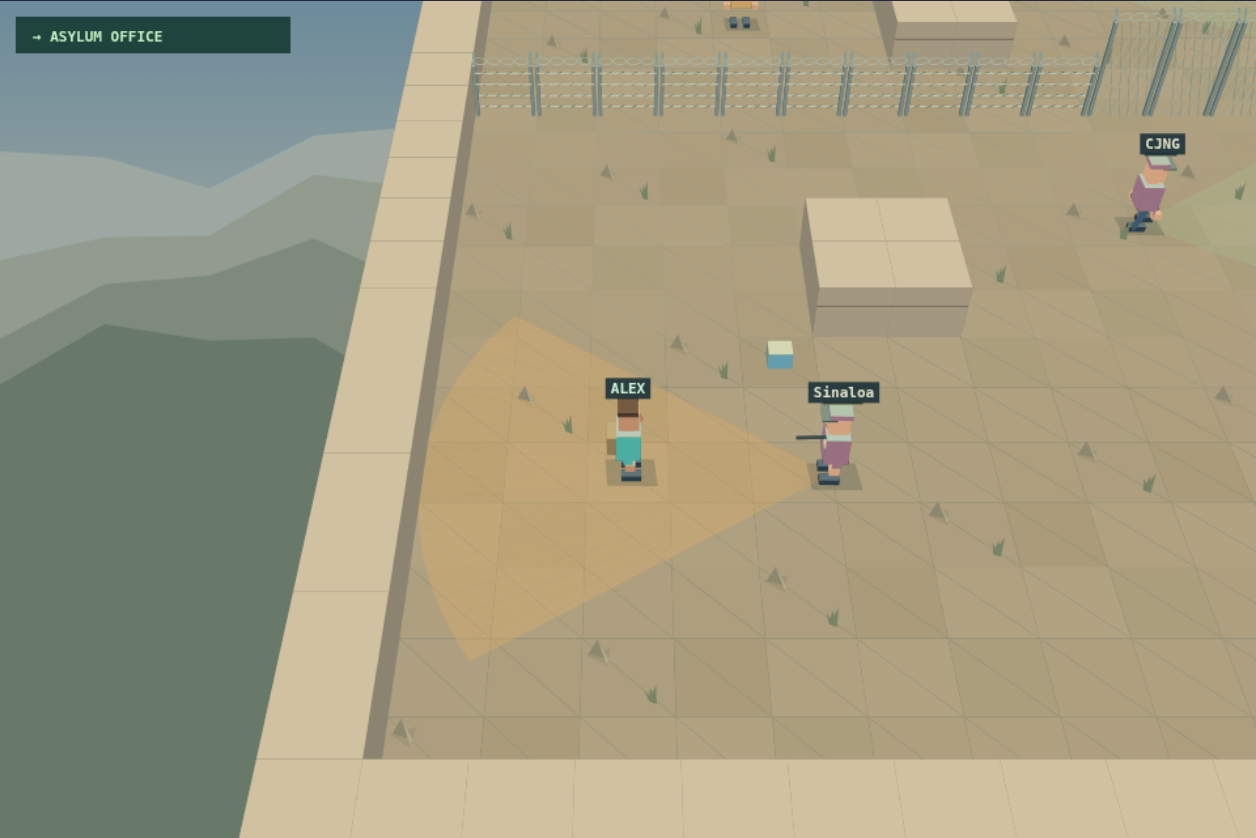
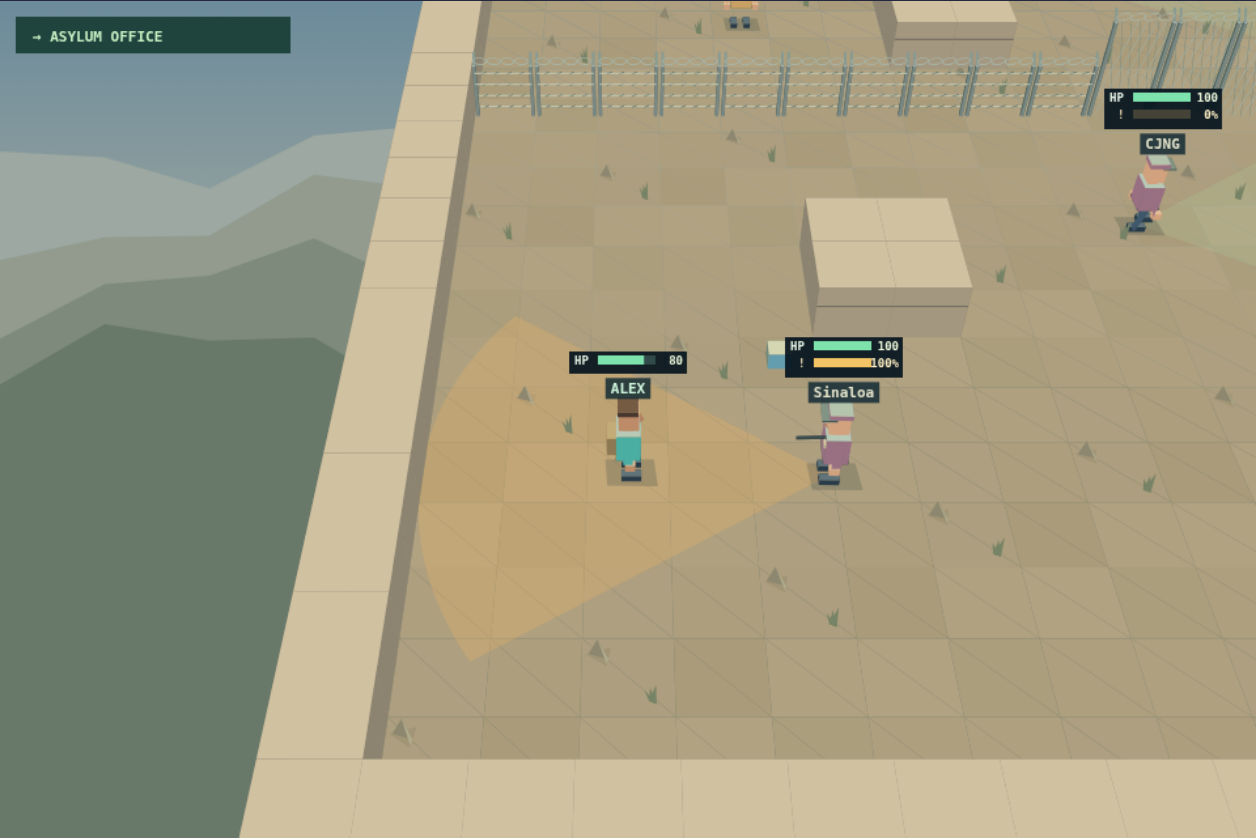
Restore Wall status meters and add nighttime flashlight combat

Changed region(s): [[0.8694, 0.0931, 0.9936, 0.1551], [0.621, 0.4033, 0.7452, 0.4964], [0.4347, 0.4033, 0.5589, 0.4654]]

diff --git a/src/games/against-the-wall/game.ts b/src/games/against-the-wall/game.ts
@@ -15,7 +15,7 @@ export const createGame: GameModule['create'] = (host, services): GameInstance =
     overlayKey = '',
     muted = host.dataset.muted !== 'false';
   const root = document.createElement('section');
-  root.innerHTML = `<style>.aw{font:14px system-ui;color:#f7e7bd;max-width:1440px;margin:auto}.aw-head{display:flex;flex-wrap:wrap;gap:16px;padding:14px;background:#24273e}.aw-stamina{display:flex;align-items:center;gap:8px}.aw-stamina progress{width:120px;accent-color:#8cf1d2}.aw-stage{position:relative}.aw-overlay{position:absolute;inset:15% 10%;background:#18213bf5;border:2px solid #8cf1d2;padding:20px;text-align:center;align-content:center}.aw-controls{display:flex;gap:8px;flex-wrap:wrap;margin:10px 0}.aw button{min-width:48px;min-height:46px;padding:10px;background:#263951;color:#f6ecc7;border:1px solid #82bba9;font:inherit;touch-action:none}.aw-note{line-height:1.6}.aw-status{min-height:40px}</style><div class="aw-head"><strong>AGAINST THE WALL</strong><span data-hud></span><label class="aw-stamina">Sprint <progress data-stamina max="4" value="4" aria-label="Sprint time remaining"></progress> <span data-stamina-label>4.0s / 4s</span></label></div><div class="aw-stage"><canvas aria-label="Perspective border districts with constructed crossings, pursuers and an Asylum Office"></canvas><div class="aw-overlay"></div></div><div class="aw-controls"><button data-dir="up" aria-label="Move up">↑</button><button data-dir="left" aria-label="Move left">←</button><button data-dir="down" aria-label="Move down">↓</button><button data-dir="right" aria-label="Move right">→</button><button data-sprint>Sprint: off</button><button data-breach>Build crossing · B</button><button data-help>Help / Collect · E</button><button data-aim>Distraction · Space</button><button data-confirm>Confirm · Enter</button><button data-step>Step time</button><button data-sound>Sound · M</button></div><div class="aw-construction"><label>Crossing construction <progress data-construction max="1" value="0" aria-label="Crossing construction progress"></progress></label><span data-crossing-info>Approach the barrier and press B.</span></div><p class="aw-status" role="status" aria-live="polite"></p><p class="aw-note">WASD / arrows move on screen · B builds/cancels a crossing; moving cancels construction · Shift runs for up to 4 seconds; release to recharge · E helps nearby adults and collects supplies · Space aims a noise beacon, click a location within four tiles, Enter confirms. Draw hostile factions together: they can exchange fire while you escape. ICE and Border Patrol are allied; same-faction pursuers never shoot one another. Losing health returns Alex safely to the district checkpoint. Mint office marker is your destination. Fictional geography and political cartoon dialogue; reaching intake does not mean asylum approval.</p>`;
+  root.innerHTML = `<style>.aw{font:14px system-ui;color:#f7e7bd;max-width:1440px;margin:auto}.aw-head{display:flex;flex-wrap:wrap;gap:16px;padding:14px;background:#24273e}.aw-stamina{display:flex;align-items:center;gap:8px}.aw-stamina progress{width:120px;accent-color:#8cf1d2}.aw-stage{position:relative}.aw-overlay{position:absolute;inset:15% 10%;background:#18213bf5;border:2px solid #8cf1d2;padding:20px;text-align:center;align-content:center}.aw-controls{display:flex;gap:8px;flex-wrap:wrap;margin:10px 0}.aw button{min-width:48px;min-height:46px;padding:10px;background:#263951;color:#f6ecc7;border:1px solid #82bba9;font:inherit;touch-action:none}.aw-note{line-height:1.6}.aw-status{min-height:40px}</style><div class="aw-head"><strong>AGAINST THE WALL</strong><span data-hud></span><label class="aw-stamina">Health <progress data-health max="100" value="100" aria-label="Health remaining"></progress></label><span data-daylight></span><label class="aw-stamina">Sprint <progress data-stamina max="4" value="4" aria-label="Sprint time remaining"></progress> <span data-stamina-label>4.0s / 4s</span></label></div><div class="aw-stage"><canvas aria-label="Perspective border districts with constructed crossings, pursuers and an Asylum Office"></canvas><div class="aw-overlay"></div></div><div class="aw-controls"><button data-dir="up" aria-label="Move up">↑</button><button data-dir="left" aria-label="Move left">←</button><button data-dir="down" aria-label="Move down">↓</button><button data-dir="right" aria-label="Move right">→</button><button data-sprint>Sprint: off</button><button data-breach>Build crossing · B</button><button data-help>Help / Collect · E</button><button data-aim>Distraction · Space</button><button data-confirm>Confirm · Enter</button><button data-step>Step time</button><button data-sound>Sound · M</button></div><div class="aw-construction"><label>Crossing construction <progress data-construction max="1" value="0" aria-label="Crossing construction progress"></progress></label><span data-crossing-info>Approach the barrier and press B.</span></div><p class="aw-status" role="status" aria-live="polite"></p><p class="aw-note">WASD / arrows move on screen · B builds/cancels a crossing; moving cancels construction · Shift runs for up to 4 seconds; release to recharge · E helps nearby adults and collects supplies · Space aims a noise beacon, click a location within four tiles, Enter confirms. Draw hostile factions together: they can exchange fire while you escape. Day and night alternate every 60 seconds of play. By day ICE and Border Patrol are allied and factions protect their own. At night every pursuer uses a flashlight and may shoot anyone they detect, including allies. Green bars show health; amber bars show attention. Losing health returns Alex safely to the district checkpoint. Mint office marker is your destination. Fictional geography and political cartoon dialogue; reaching intake does not mean asylum approval.</p>`;
   root.className = 'aw';
   host.append(root);
   const canvas = root.querySelector('canvas')!,
@@ -52,6 +52,9 @@ export const createGame: GameModule['create'] = (host, services): GameInstance =
     );
     root.querySelector('[data-hud]')!.textContent =
       `District ${s.district}/3 · Health ${s.health} · Tokens ${s.tokens} · Score ${s.score} · Follow mint office marker`;
+    root.querySelector<HTMLProgressElement>('[data-health]')!.value = s.health;
+    root.querySelector('[data-daylight]')!.textContent =
+      `${M.isNight(s) ? 'Night · flashlights · friendly fire' : 'Day'} · ${Math.ceil(M.secondsToLightChange(s))}s until ${M.isNight(s) ? 'day' : 'night'}`;
     const meter = root.querySelector<HTMLProgressElement>('[data-stamina]')!;
     meter.value = s.stamina / 25;
     meter.setAttribute('aria-valuetext', `${(s.stamina / 25).toFixed(1)} seconds remaining`);
@@ -329,6 +332,8 @@ export const createGame: GameModule['create'] = (host, services): GameInstance =
       tokens: s.tokens,
       stamina: s.stamina,
       health: s.health,
+      night: M.isNight(s),
+      lightChangeIn: M.secondsToLightChange(s),
       enemies: s.enemies.map((e) => ({ ...e })),
       gate: { ...s.gate },
       aim,

diff --git a/src/games/against-the-wall/scene.ts b/src/games/against-the-wall/scene.ts
@@ -1,4 +1,4 @@
-import { canDistract, type State, type Actor } from './model';
+import { isNight, canDistract, type State, type Actor } from './model';
 import { visionBoundary, DISTRACTION_RANGE } from './visibility';
 
 type V = { x: number; y: number; z: number };
@@ -24,6 +24,7 @@ export function drawScene(
   reducedMotion: boolean,
 ) {
   c.save();
+  const night = isNight(s);
   const depth = (p: V) => distance - (p.y - s.y) * 0.68 - p.z * 0.73;
   const project = (p: V) => projectScene(s, p.x, p.y, p.z);
   const v = (x: number, y: number, z = 0): V => ({ x, y, z });
@@ -243,16 +244,11 @@ export function drawScene(
   for (const e of s.enemies) {
     if (e.state === 'dead') continue;
     const boundary = visionBoundary(s, e);
-    for (let i = 0; i < boundary.length - 1; i++)
-      face(
-        [
-          v(e.x, e.y, 0.025),
-          v(boundary[i].x, boundary[i].y, 0.025),
-          v(boundary[i + 1].x, boundary[i + 1].y, 0.025),
-        ],
-        e.meter > 0 ? '#e8b26750' : '#b7d8a630',
-        true,
-      );
+    face(
+      [v(e.x, e.y, 0.025), ...boundary.map((p) => v(p.x, p.y, 0.025))],
+      night ? '#f4edaa85' : e.meter > 0 ? '#e8b26750' : '#b7d8a630',
+      true,
+    );
   }
   // Welcoming office sits on its real model destination, with a portico and lit glazing.
   const ox = s.office.x,
@@ -462,26 +458,14 @@ export function drawScene(
         color: player ? '#cdf4dc' : '#e5e4cc',
       });
     if (e && e.state !== 'dead') {
-      // Meter geometry remains directly over the actor, sorting naturally with nearby cover.
-      const fill = Math.max(0, Math.min(1, e.meter));
-      face(
-        [
-          v(e.x - 0.23, e.y, 1.21),
-          v(e.x + 0.23, e.y, 1.21),
-          v(e.x + 0.23, e.y, 1.26),
-          v(e.x - 0.23, e.y, 1.26),
-        ],
-        '#34483e',
-      );
-      face(
-        [
-          v(e.x - 0.23, e.y - 0.002, 1.212),
-          v(e.x - 0.23 + 0.46 * fill, e.y - 0.002, 1.212),
-          v(e.x - 0.23 + 0.46 * fill, e.y - 0.002, 1.258),
-          v(e.x - 0.23, e.y - 0.002, 1.258),
-        ],
-        '#ebbe65',
-      );
+      if (night) {
+        const dx = Math.cos(heading),
+          dy = Math.sin(heading);
+        const hand = v(e.x + 0.12 * dx - 0.22 * dy, e.y + 0.12 * dy + 0.22 * dx, 0.47);
+        const lens = v(hand.x + 0.22 * dx, hand.y + 0.22 * dy, 0.47);
+        beam(hand, lens, 0.045, '#768d99');
+        beam(v(lens.x - 0.02 * dx, lens.y - 0.02 * dy, 0.47), lens, 0.052, '#f4edaa85');
+      }
       if (e.state === 'combat')
         beam(
           v(e.x + 0.1 * Math.cos(heading), e.y + 0.1 * Math.sin(heading), 0.67),
@@ -567,10 +551,23 @@ export function drawScene(
     c.beginPath();
     points.forEach((p, i) => (i ? c.lineTo(p.x, p.y) : c.moveTo(p.x, p.y)));
     c.closePath();
-    c.fillStyle = mesh.color;
+    const luminous = ['#f4edaa85', '#ffe5a0', '#eadca1', '#93f5d0', '#ff7790', '#ffe59b'].includes(
+      mesh.color,
+    );
+    if (night && !luminous && /^#[0-9a-f]{6}([0-9a-f]{2})?$/i.test(mesh.color)) {
+      const rgb = Number.parseInt(mesh.color.slice(1, 7), 16);
+      const r = Math.round(((rgb >> 16) & 255) * 0.27),
+        g = Math.round(((rgb >> 8) & 255) * 0.34),
+        b = Math.round((rgb & 255) * 0.47);
+      c.fillStyle = `rgba(${r},${g},${b},${mesh.color.length === 9 ? Number.parseInt(mesh.color.slice(7), 16) / 255 : 1})`;
+    } else c.fillStyle = mesh.color;
     c.fill();
   };
   // Ground is its own pass; foreground raised meshes then occlude bodies by physical depth.
+  if (night) {
+    c.fillStyle = '#071529ce';
+    c.fillRect(0, 0, 960, 640);
+  }
   floor.forEach(paint);
   meshes.sort((a, b) => b.depth - a.depth).forEach(paint);
   c.textAlign = 'center';
@@ -584,6 +581,47 @@ export function drawScene(
     c.fillStyle = label.color;
     c.fillText(label.text, p.x, p.y);
   }
+  const meters = [
+    { x: s.x, y: s.y, health: s.health, attention: null as number | null },
+    ...s.enemies
+      .filter((e) => e.state !== 'dead')
+      .map((e) => ({ x: e.x, y: e.y, health: e.health ?? 100, attention: e.meter })),
+  ];
+  c.font = 'bold 9px monospace';
+  for (const actor of meters) {
+    const p = project(v(actor.x, actor.y, 1.32));
+    if (p.x < 48 || p.x > 912 || p.y < 30 || p.y > 580) continue;
+    const x = Math.round(p.x - 43),
+      y = Math.round(p.y - (actor.attention === null ? 30 : 44)),
+      health = Math.max(0, Math.min(100, actor.health));
+    c.fillStyle = '#07151fee';
+    c.fillRect(x - 2, y - 2, 90, actor.attention === null ? 17 : 31);
+    c.textAlign = 'left';
+    c.fillStyle = '#e7f5e7';
+    c.fillText('HP', x + 2, y + 8);
+    c.fillStyle = '#314a49';
+    c.fillRect(x + 20, y + 1, 44, 7);
+    c.fillStyle = health < 30 ? '#fa9d83' : '#7ee2ad';
+    c.fillRect(x + 20, y + 1, (44 * health) / 100, 7);
+    c.textAlign = 'right';
+    c.fillStyle = '#edf8dc';
+    c.fillText(String(Math.round(health)), x + 85, y + 8);
+    if (actor.attention !== null) {
+      const attention = Math.max(0, Math.min(1, actor.attention));
+      c.textAlign = 'left';
+      c.fillStyle = '#efddb4';
+      c.fillText('!', x + 8, y + 21);
+      c.fillStyle = '#454338';
+      c.fillRect(x + 20, y + 14, 44, 7);
+      c.fillStyle = '#f3c466';
+      c.fillRect(x + 20, y + 14, 44 * attention, 7);
+      c.textAlign = 'right';
+      c.fillStyle = '#fff0c4';
+      c.fillText(`${Math.round(attention * 100)}%`, x + 85, y + 21);
+    }
+  }
+  c.textAlign = 'center';
+  c.font = 'bold 11px monospace';
   if (s.construction) {
     const b = s.barriers.find((b) => b.x === s.construction!.x && b.y === s.construction!.y);
     const action =

diff --git a/src/games/against-the-wall/model.ts b/src/games/against-the-wall/model.ts
@@ -307,6 +307,16 @@ export function hostile(a: Faction, b: Faction): boolean {
   if (['ICE', 'Border Patrol'].includes(a) && ['ICE', 'Border Patrol'].includes(b)) return false;
   return true;
 }
+/** Two equal simulation-time phases; pause therefore freezes lighting. */
+export function isNight(s: Pick<State, 'time'>): boolean {
+  return Math.floor(s.time / 60) % 2 === 1;
+}
+export function secondsToLightChange(s: Pick<State, 'time'>): number {
+  return 60 - (s.time % 60);
+}
+export function combatHostile(s: Pick<State, 'time'>, a: Faction, b: Faction): boolean {
+  return isNight(s) || hostile(a, b);
+}
 export function sees(s: State, e: Actor, target: { x: number; y: number }): boolean {
   const dx = target.x - e.x,
     dy = target.y - e.y,
@@ -452,6 +462,10 @@ export function step(s: State, dt: number, input = { x: 0, y: 0, sprint: false }
     e.shot = Math.max(0, (e.shot ?? 0) - dt);
     e.moving = false;
     if (e.state === 'dead') continue;
+    // Revalidate on every frame, particularly the first daylight frame.
+    const existingRival =
+      typeof e.target === 'number' ? s.enemies.find((a) => a.id === e.target) : null;
+    if (existingRival && !combatHostile(s, e.faction, existingRival.faction)) clearTarget(e);
     e.cooldown = Math.max(0, e.cooldown - dt);
     if (e.state === 'clash' || e.state === 'recover') {
       e.timer -= dt;
@@ -477,7 +491,9 @@ export function step(s: State, dt: number, input = { x: 0, y: 0, sprint: false }
           ...s.enemies
             .filter(
               (other) =>
-                other.id !== e.id && other.state !== 'dead' && hostile(e.faction, other.faction),
+                other.id !== e.id &&
+                other.state !== 'dead' &&
+                combatHostile(s, e.faction, other.faction),
             )
             .map((other) => [other.id, other] as [number, Actor]),
         ];
@@ -567,7 +583,7 @@ export function step(s: State, dt: number, input = { x: 0, y: 0, sprint: false }
     if (shot.target === 'player') damage(s, 'player', 20);
     else {
       const rival = s.enemies.find((e) => e.id === shot.target);
-      if (rival && hostile(shot.from.faction, rival.faction)) {
+      if (rival && combatHostile(s, shot.from.faction, rival.faction)) {
         damage(s, rival.id, 25);
         if (rival.state !== 'dead') {
           rival.target = shot.from.id;
@@ -589,7 +605,7 @@ export function step(s: State, dt: number, input = { x: 0, y: 0, sprint: false }
     for (let i = 0; i + 1 < arrived.length; i += 2) {
       const a = arrived[i],
         b = arrived[i + 1];
-      if (hostile(a.faction, b.faction)) {
+      if (combatHostile(s, a.faction, b.faction)) {
         for (const [actor, target] of [
           [a, b],
           [b, a],

diff --git a/src/games/against-the-wall/night.test.ts b/src/games/against-the-wall/night.test.ts
@@ -1,0 +1,80 @@
+import { describe, expect, it } from 'vitest';
+import { create, step, isNight, secondsToLightChange, combatHostile, type Actor } from './model';
+function pair(time: number) {
+  const s = create();
+  s.time = time;
+  s.phase = 'running';
+  s.walls.clear();
+  s.enemies = [];
+  s.x = 25;
+  s.y = 20;
+  for (let i = 0; i < 2; i++)
+    s.enemies.push({
+      id: i,
+      faction: i ? 'Border Patrol' : 'ICE',
+      x: 10 + i * 2,
+      y: 5,
+      originX: 10 + i * 2,
+      originY: 5,
+      heading: i ? Math.PI : 0,
+      meter: 1,
+      state: 'combat',
+      target: 1 - i,
+      committed: true,
+      health: 100,
+      timer: 0,
+      cooldown: 0,
+      way: 1,
+      arrival: -1,
+    } as Actor);
+  return s;
+}
+describe('night simulation rules', () => {
+  it('alternates exactly at simulation minute boundaries', () => {
+    for (const [time, night, left] of [
+      [0, false, 60],
+      [59.5, false, 0.5],
+      [60, true, 60],
+      [119.5, true, 0.5],
+      [120, false, 60],
+      [180, true, 60],
+    ] as const) {
+      expect(isNight({ time })).toBe(night);
+      expect(secondsToLightChange({ time })).toBe(left);
+    }
+  });
+  it('keeps daylight alliances and permits every distinct faction pairing at night', () => {
+    expect(combatHostile({ time: 0 }, 'ICE', 'Border Patrol')).toBe(false);
+    for (const a of ['ICE', 'Border Patrol', 'Cartel', 'Paramilitary'] as const)
+      for (const b of ['ICE', 'Border Patrol', 'Cartel', 'Paramilitary'] as const)
+        expect(combatHostile({ time: 60 }, a, b)).toBe(true);
+  });
+  it('exchanges fire between federal allies at night but drops their targets at dawn', () => {
+    const s = pair(60);
+    step(s, 0.01);
+    expect(s.enemies.map((e) => e.health)).toEqual([75, 75]);
+    s.time = 119.99;
+    s.enemies.forEach((e) => (e.fireCooldown = 0));
+    step(s, 0.02);
+    expect(s.enemies.map((e) => e.health)).toEqual([75, 75]);
+    expect(s.enemies.map((e) => e.target)).toEqual([null, null]);
+  });
+  it('lets same-faction actors acquire one another at night without targeting themselves', () => {
+    const s = pair(60);
+    s.enemies.forEach((e) => {
+      e.faction = 'Cartel';
+      e.target = null;
+      e.meter = 0;
+      e.state = 'patrol';
+    });
+    step(s, 0.9);
+    expect(s.enemies.map((e) => e.target)).toEqual([1, 0]);
+  });
+  it('does not advance the light cycle while paused', () => {
+    const s = pair(59.9);
+    s.phase = 'paused';
+    step(s, 10);
+    expect(s.time).toBe(59.9);
+    expect(isNight(s)).toBe(false);
+  });
+});

diff --git a/tests/e2e/wall-night.spec.ts b/tests/e2e/wall-night.spec.ts
@@ -1,0 +1,40 @@
+import { test, expect } from '@playwright/test';
+
+test('Wall daylight changes at nightfall, health is visible, and pause freezes the countdown', async ({
+  page,
+}) => {
+  // Keep the actual host, clock, HUD and renderer; start immediately before dusk.
+  await page.route('**/src/games/against-the-wall/model.ts*', async (route) => {
+    const response = await route.fetch();
+    const source = await response.text();
+    const marker = /loadDistrict\(s\);\s*return s;/;
+    expect(marker.test(source)).toBe(true);
+    await route.fulfill({
+      response,
+      body: source.replace(
+        marker,
+        'loadDistrict(s);\n s.time=59; s.health=65; s.enemies=[];\n return s;',
+      ),
+    });
+  });
+  await page.clock.install({ time: new Date('2026-09-08T12:00:00Z') });
+  await page.clock.pauseAt(new Date('2026-09-08T12:00:01Z'));
+  await page.goto('/games/against-the-wall/');
+  await page.getByTestId('game-start').click();
+  const daylight = page.locator('[data-daylight]');
+  const health = page.locator('[data-health]');
+  await expect(daylight).toContainText('Day');
+  await expect(health).toBeVisible();
+  expect(await health.evaluate((node) => (node as HTMLProgressElement).value)).toBe(65);
+  await page.clock.runFor(2100);
+  await expect(daylight).toContainText('Night');
+  await page.getByTestId('game-pause').click();
+  const frozen = await daylight.textContent();
+  await page.clock.runFor(4000);
+  expect(await daylight.textContent()).toBe(frozen);
+  expect(await health.evaluate((node) => (node as HTMLProgressElement).value)).toBe(65);
+  await page.getByTestId('game-pause').click();
+  await page.clock.runFor(2100);
+  await expect(daylight).toContainText('Night');
+  expect(await daylight.textContent()).not.toBe(frozen);
+});

diff --git a/src/games/against-the-wall/index.ts b/src/games/against-the-wall/index.ts
@@ -10,11 +10,12 @@ export const manifest = {
     'WASD / arrows: move',
     'Shift: sprint',
     'E: help / collect',
+    'B: build or cancel barrier crossing',
     'Space: aim distraction; Enter: confirm',
     'P / Escape: pause',
     'R: restart',
     'Pursuers follow visible people as suspicion rises; a full meter enables gunfire. Use cover until suspicion drains.',
-    'ICE and Border Patrol are allied. Hostile factions can fight each other; Alex remains an unarmed civilian.',
+    'Day/night changes every 60 seconds. Daytime allies include ICE and Border Patrol; at night flashlight-bearing pursuers can fire on allies too.',
   ],
   assetIds: [],
 };

diff --git a/src/games/against-the-wall/BEHAVIOR.md b/src/games/against-the-wall/BEHAVIOR.md
@@ -4,14 +4,14 @@
 
 - **Collision:** Alex and pursuers use radius-0.22 circles against every potentially overlapping solid tile AABB. Movement is split into segments no longer than 0.1 tile (or half the actor radius) and resolves X/Y separately for sliding. This prevents long-step tunneling through adjoining walls and diagonal corner penetration. Gate closure checks whole actor radii; dead bodies are nonblocking.
 - **Perception:** A 70-degree cone follows each pursuer's actual facing, with configured range and wall visibility. Candidates are Alex and living hostile faction members. Nearest visible candidate wins deterministically. Even partial suspicion moves toward the last visible position. At a full meter the pursuer commits and can fire. Hidden targets do not update their remembered position: suspicion drains over 1.2 seconds, then the actor clears the target and returns to patrol. The stop-at-zero rule also ends full-meter pursuit; there is no omniscient chase through cover.
-- **Faction matrix:** Same faction never fights itself. ICE and Border Patrol are allied and do not fire on one another. Cartel and paramilitary actors are hostile to each other and to either federal faction. All pursuers can detect/chase Alex. The optional civilian companion is not a gunfire target; helping them remains a safe-shelter action. These explicit game rules avoid accidental friendly fire or an implication that every distinct uniform is automatically hostile.
+- **Faction matrix:** During daytime, factions protect their own and ICE/Border Patrol are allied. At night every other living pursuer is a valid opponent, including same-faction actors and federal allies. Day and night each last 60 seconds of simulation time; daylight clears now-allied targets. Cartel and paramilitary actors are hostile to each other and to either federal faction. All pursuers can detect/chase Alex. The optional civilian companion is not a gunfire target; helping them remains a safe-shelter action. The night rules also govern retaliation and beacon encounters.
 - **Combat:** Full-meter actors with line of sight within 3.6 tiles fire every 0.8 seconds. Faction members have 100 health and take 25 damage per hit. Alex has 100 health and takes 20; reaching zero resets the district and restores health/resources. Spawn grace suppresses player damage. Shots resolve after all actors decide their actions, allowing simultaneous return fire. A surviving victim identifies its attacker and can retaliate. Shots cannot pass through walls.
-- **Distractions:** Hostile investigators arriving at the same beacon deliberately target one another and start a shootout. Same-faction and allied investigators argue for two seconds, then recover; they never damage one another. The earlier fixed eight-second harmless rival dust-cloud window is replaced by health-based combat. No points are awarded for injury or deaths.
+- **Distractions:** Hostile investigators arriving at the same beacon deliberately target one another and start a shootout. During daytime, same-faction and allied investigators argue for two seconds, then recover; at night they can fight. The earlier fixed eight-second harmless rival dust-cloud window is replaced by health-based combat. No points are awarded for injury or deaths.
 - **Death and presentation:** Zero-health faction members stay prone at their final location until district reset. They do not move, detect, shoot, capture, attract new targets or block paths. There is no gore. Health/suspicion bars distinguish injury from awareness. Brief localized muzzle flashes/tracer cues are disabled by reduced motion; gameplay timing and damage remain identical.
 - **Walking:** Gait phase advances from actual collision-resolved distance, not elapsed time. Stationary or fully blocked characters do not walk in place. Reduced motion removes cosmetic limb bobbing.
 
-The existing three-district walking campaign fixture remains unchanged and passes with the live updated pursuers present. Regression cases cover wall tunneling, adjoining corners, sliding, partial suspicion, last-seen behavior, autonomous rival acquisition, damage/death persistence, allies, dead nonblocking actors, player-health checkpoint recovery and displacement-driven walking.
+The three-district walking campaign fixture constructs a barrier crossing and passes with the live updated pursuers present. Regression cases cover wall tunneling, adjoining corners, sliding, partial suspicion, last-seen behavior, autonomous rival acquisition, damage/death persistence, allies, dead nonblocking actors, player-health checkpoint recovery and displacement-driven walking.
 
-Vision wedges use the same closed-tile intersection as detection, stop at cover and map edges, and follow the observer's heading. Distracted investigators do not show a detection wedge while they ignore perception. The mint dashed aiming boundary shows the beacon placement radius; a red cross marks an invalid target. Characters use front/back/side views aligned with projected world headings.
+Vision wedges use the same closed-tile intersection as detection, stop at cover and map edges, and follow the observer's heading. Nighttime wedges become bright, wall-clipped flashlight beams. The mint dashed aiming boundary shows the beacon placement radius; a red marker indicates an invalid target. Characters use front/back/side views aligned with projected world headings.
 
 Sprint has four seconds of capacity in every mode, displayed above the playfield. Moving at sprint speed drains 25 stamina per second; walking/resting restores 25 per second. Exhaustion requires releasing sprint before another burst, preventing automatic speed flicker while the key stays held. Water remains available to collect after stopping a sprint. Pause freezes stamina; checkpoint/district resets refill it.

diff --git a/.internal_docs/specs/terrain-crossings.md b/.internal_docs/specs/terrain-crossings.md
@@ -19,3 +19,9 @@ A continuous barrier spans row 10, from one outside boundary to the other, separ
 Start within 1.6 tiles of a closed segment and press B. Stay still while construction proceeds; moving or pressing B again cancels. Threats remain active. Completion opens a physical route through the barrier. Temporary ladder expiration waits for player/enemy collision circles to clear before closing. Checkpoints reset construction and crossings. Four-second sprint and wall-clipped vision remain supported.
 
 The renderer targets a richer console-era perspective presentation, with material-specific structures and visible routes, while retaining the tested simulation. Pointer aiming uses the inverse of that renderer's ground projection. The destination remains labeled ASYLUM OFFICE.
+
+### Day/night and actor status
+
+Day lasts 60 seconds of simulation time, followed by 60 seconds of night, repeating. Pause freezes the cycle; turn-assisted mode advances it when the simulation advances. The HUD shows the current phase and countdown. At night, living enemies carry flashlights whose visible cones use the same wall-clipped range and direction as detection. Nighttime targeting includes other members of the same faction and federal allies. Daylight restores ordinary alliances and clears now-allied targets.
+
+Alex and living enemies have readable green health meters; each living enemy also has an amber attention meter. Meters and nameplates remain bright at night. Alex's health is additionally available as an accessible progress bar in the HUD.
